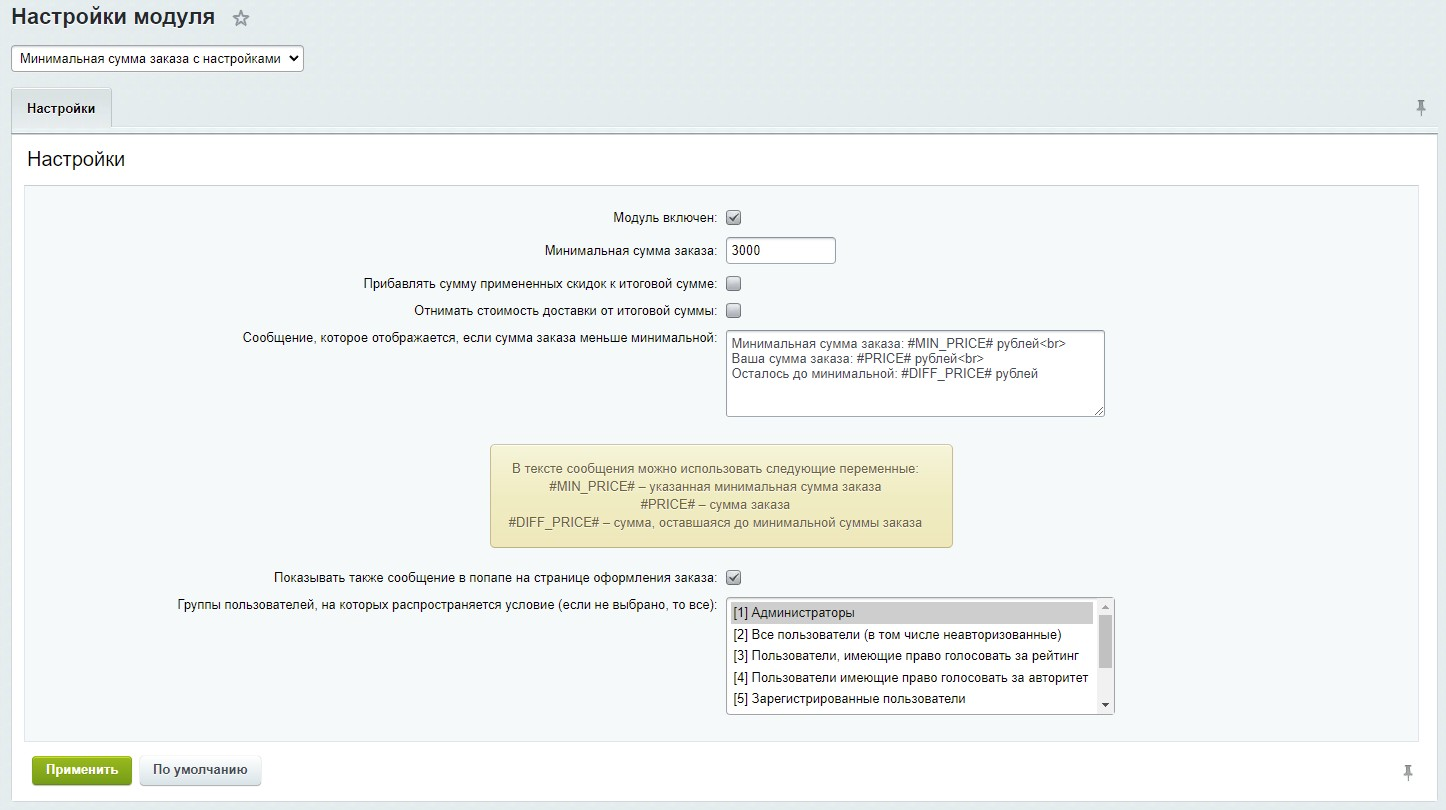
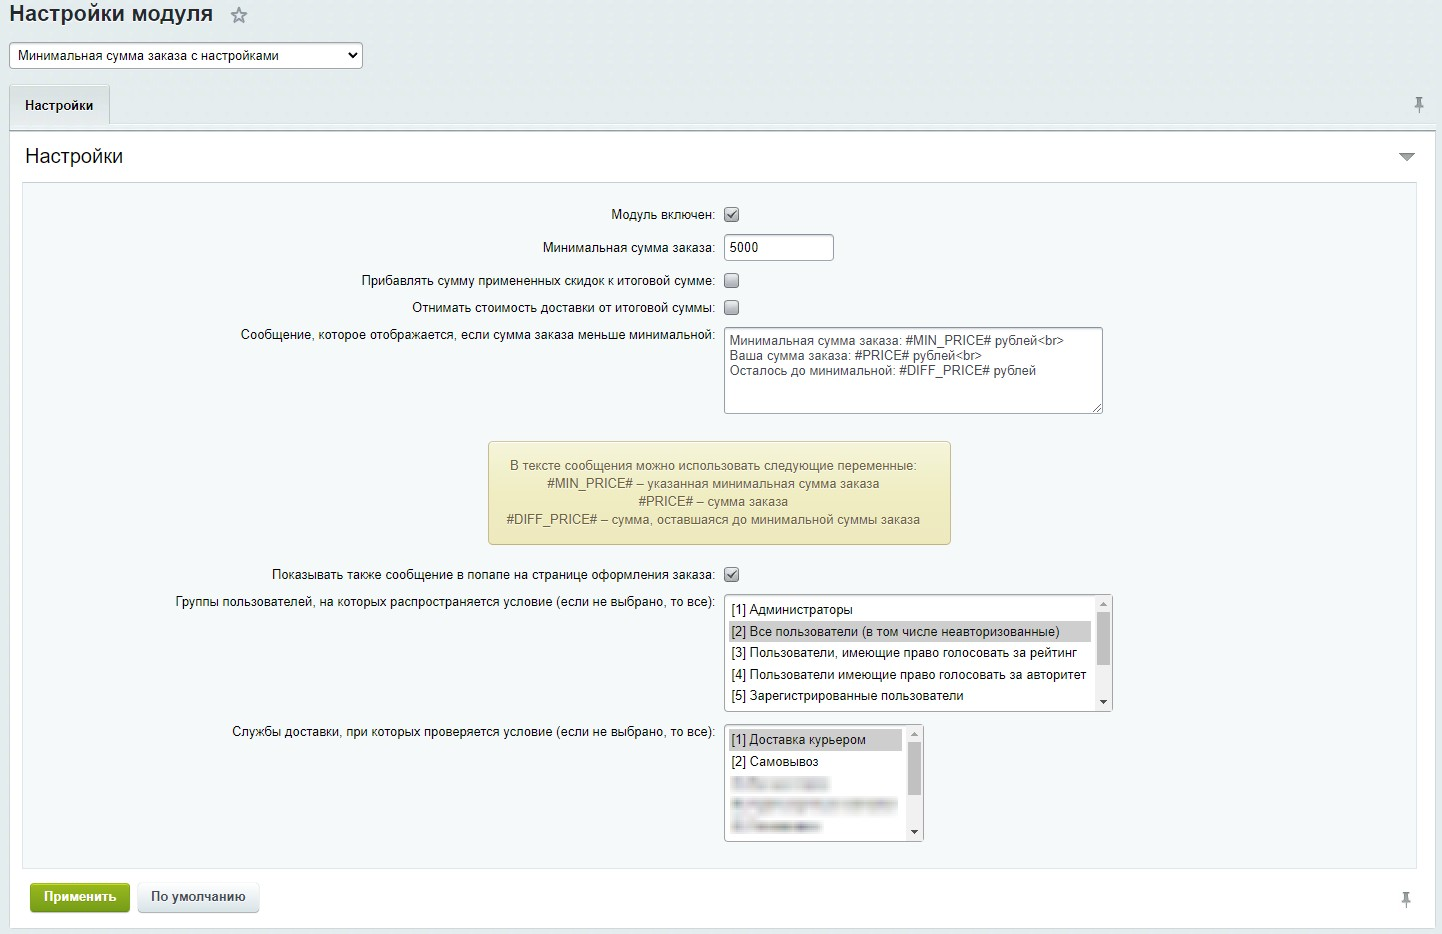
version 1.0.2 - deliveries select

Changed region(s): [[0.1248, 0.216, 0.7802, 0.8951], [0.0, 0.0, 0.9986, 0.216], [0.0, 0.9259, 0.9986, 1.0]]

diff --git a/options.php b/options.php
@@ -12,12 +12,20 @@ $request = HttpApplication::getInstance()->getContext()->getRequest();
 $module_id = htmlspecialcharsbx($request['mid'] != '' ? $request['mid'] : $request['id']);
 
 Loader::includeModule($module_id);
+Loader::includeModule('sale');
 
 $arUserGroups = [];
 $dbGroups = CGroup::GetList($b = 'ID', $o = 'ASC', ['ACTIVE' => 'Y']);
 
 while ($arGroup = $dbGroups->GetNext()) {
     $arUserGroups[$arGroup['ID']] = '[' . $arGroup['ID'] . '] ' . $arGroup['NAME'];
+}
+
+$arDeliveryTypes = [];
+$deliveries = \Bitrix\Sale\Delivery\Services\Table::getList(['select' => ['ID', 'NAME']]);
+
+while ($delivery = $deliveries->fetch()) {
+    $arDeliveryTypes[$delivery['ID']] = '[' . $delivery['ID'] . '] ' . $delivery['NAME'];
 }
 
 $aTabs = [
@@ -69,7 +77,18 @@ $aTabs = [
                 '',
                 ['multiselectbox', $arUserGroups]
             ],
+            [
+                'delivery_types',
+                Loc::getMessage('SL3W_MINPRICE_ORDER_OPTIONS_DELIVERY_TYPES'),
+                '',
+                ['multiselectbox', $arDeliveryTypes]
+            ],
         ]
+    ],
+    [
+        'DIV' => 'support',
+        'TAB' => Loc::getMessage('SL3W_MINPRICE_ORDER_SUPPORT_TAB_NAME'),
+        'TITLE' => Loc::getMessage('SL3W_MINPRICE_ORDER_SUPPORT_TAB_NAME'),
     ]
 ];
 
@@ -94,6 +113,26 @@ $tabControl->Begin();
                 __AdmSettingsDrawList($module_id, $aTab['OPTIONS']);
             }
         }
+
+        $tabControl->BeginNextTab();
+        ?>
+        <p>
+            <?= Loc::getMessage('SL3W_MINPRICE_ORDER_SUPPORT_TAB_TEXT') ?>
+        </p>
+
+        <iframe
+            src="https://yoomoney.ru/quickpay/shop-widget?writer=seller&default-sum=100&button-text=12&payment-type-choice=on&successURL=&quickpay=shop&account=410014134044507&targets=%D0%9F%D0%B5%D1%80%D0%B5%D0%B2%D0%BE%D0%B4%20%D0%BF%D0%BE%20%D0%BA%D0%BD%D0%BE%D0%BF%D0%BA%D0%B5&"
+            width="423" height="222" frameborder="0" allowtransparency="true" scrolling="no"></iframe>
+
+        <p>
+            <?= Loc::getMessage('SL3W_MINPRICE_ORDER_SUPPORT_TAB_TEXT2') ?>
+        </p>
+        <p>
+            <?= Loc::getMessage('SL3W_MINPRICE_ORDER_SUPPORT_TAB_TEXT3') ?>
+        </p>
+
+        <?php
+        __AdmSettingsDrawRow($module_id, ['note' => Loc::getMessage('SL3W_MINPRICE_ORDER_SUPPORT_NOTE')]);
 
         $tabControl->Buttons();
         ?>

diff --git a/lib/classes/Events.php b/lib/classes/Events.php
@@ -45,6 +45,29 @@ class Events
             }
 
             if ($order instanceof \Bitrix\Sale\Order) {
+
+                $deliveriesToCheckStr = Settings::get('delivery_types');
+                $deliveriesToCheck = $deliveriesToCheckStr ? explode(',', $deliveriesToCheckStr) : [];
+
+                $deliveriesChecked = false;
+
+                if (!empty($deliveriesToCheck)) {
+                    $orderDeliveries = $order->getDeliveryIdList();
+
+                    foreach ($orderDeliveries as $orderDelivery) {
+                        if (in_array($orderDelivery, $deliveriesToCheck)) {
+                            $deliveriesChecked = true;
+                            break;
+                        }
+                    }
+                } else {
+                    $deliveriesChecked = true;
+                }
+
+                if (!$deliveriesChecked) {
+                    return $result;
+                }
+
                 $price = $order->getPrice();
 
                 if (Settings::yes('plus_discount')) {

diff --git a/install/version.php b/install/version.php
@@ -1,6 +1,6 @@
 <?php
 
-$arModuleVersion = array(
-    'VERSION' => '1.0.1',
-    'VERSION_DATE' => '2022-12-24 00:00:00'
-);
+$arModuleVersion = [
+    'VERSION' => '1.0.2',
+    'VERSION_DATE' => '2023-05-20 00:00:00'
+];
